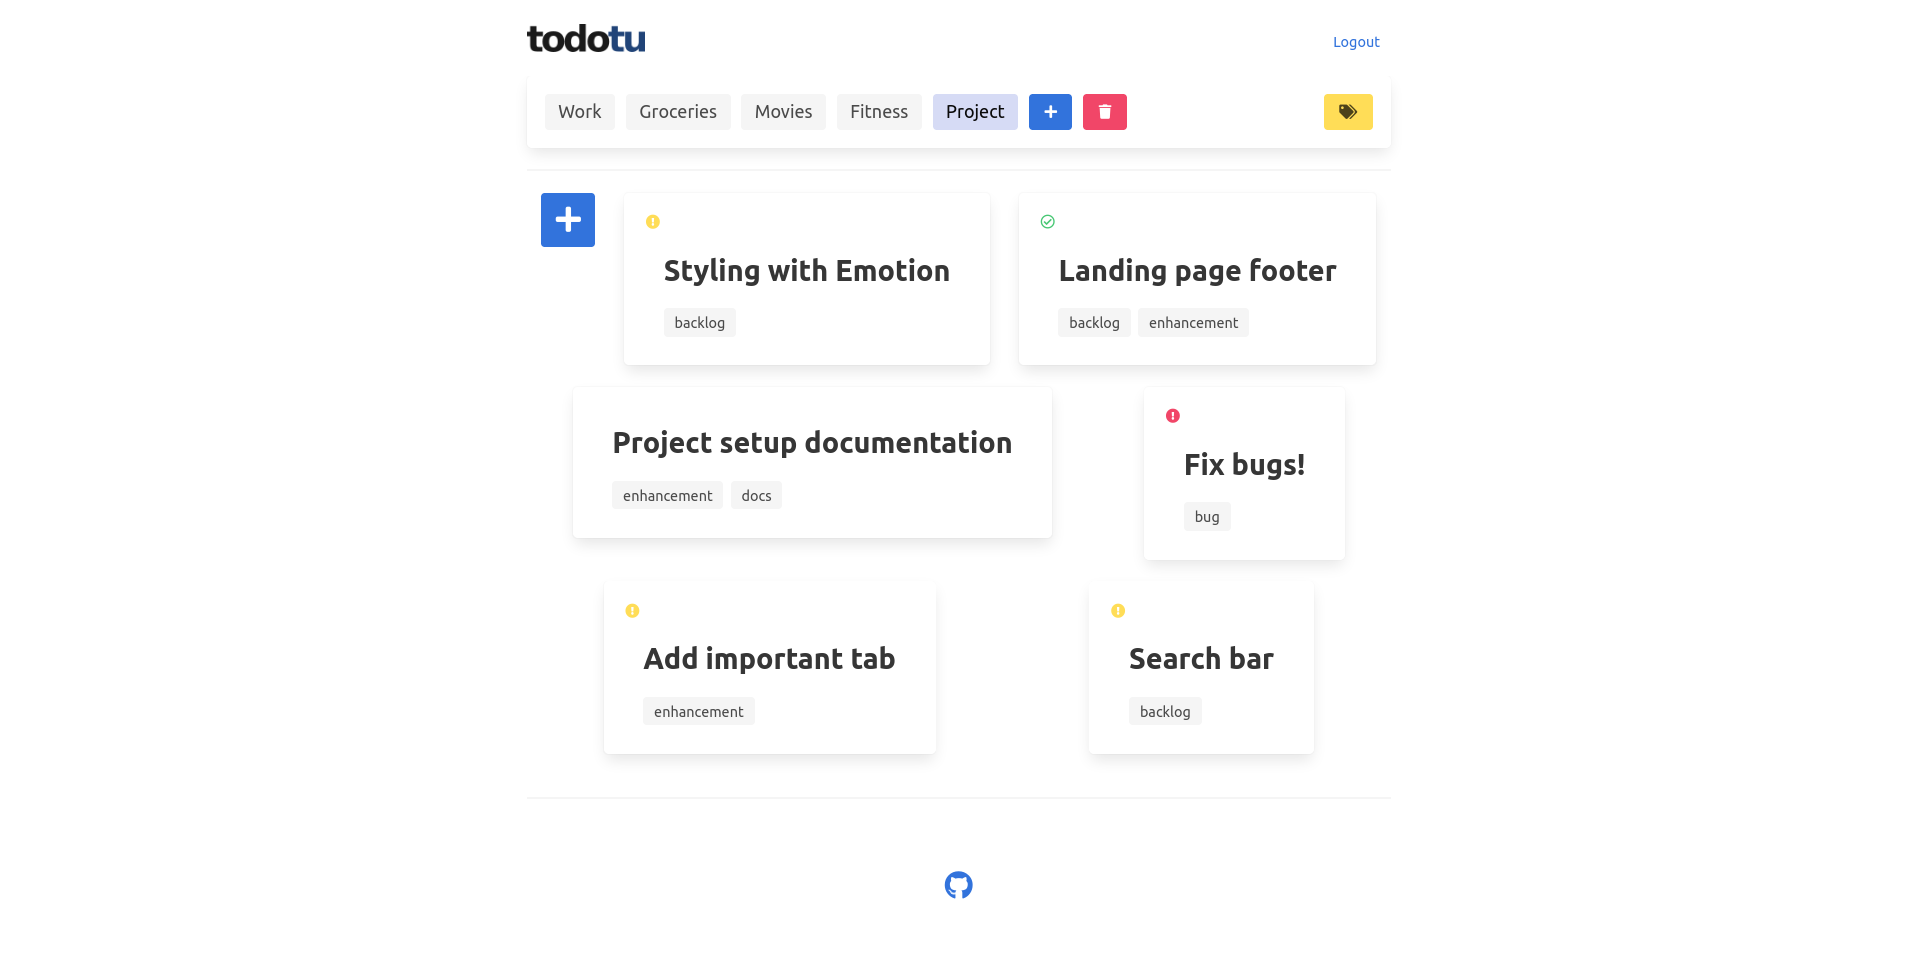
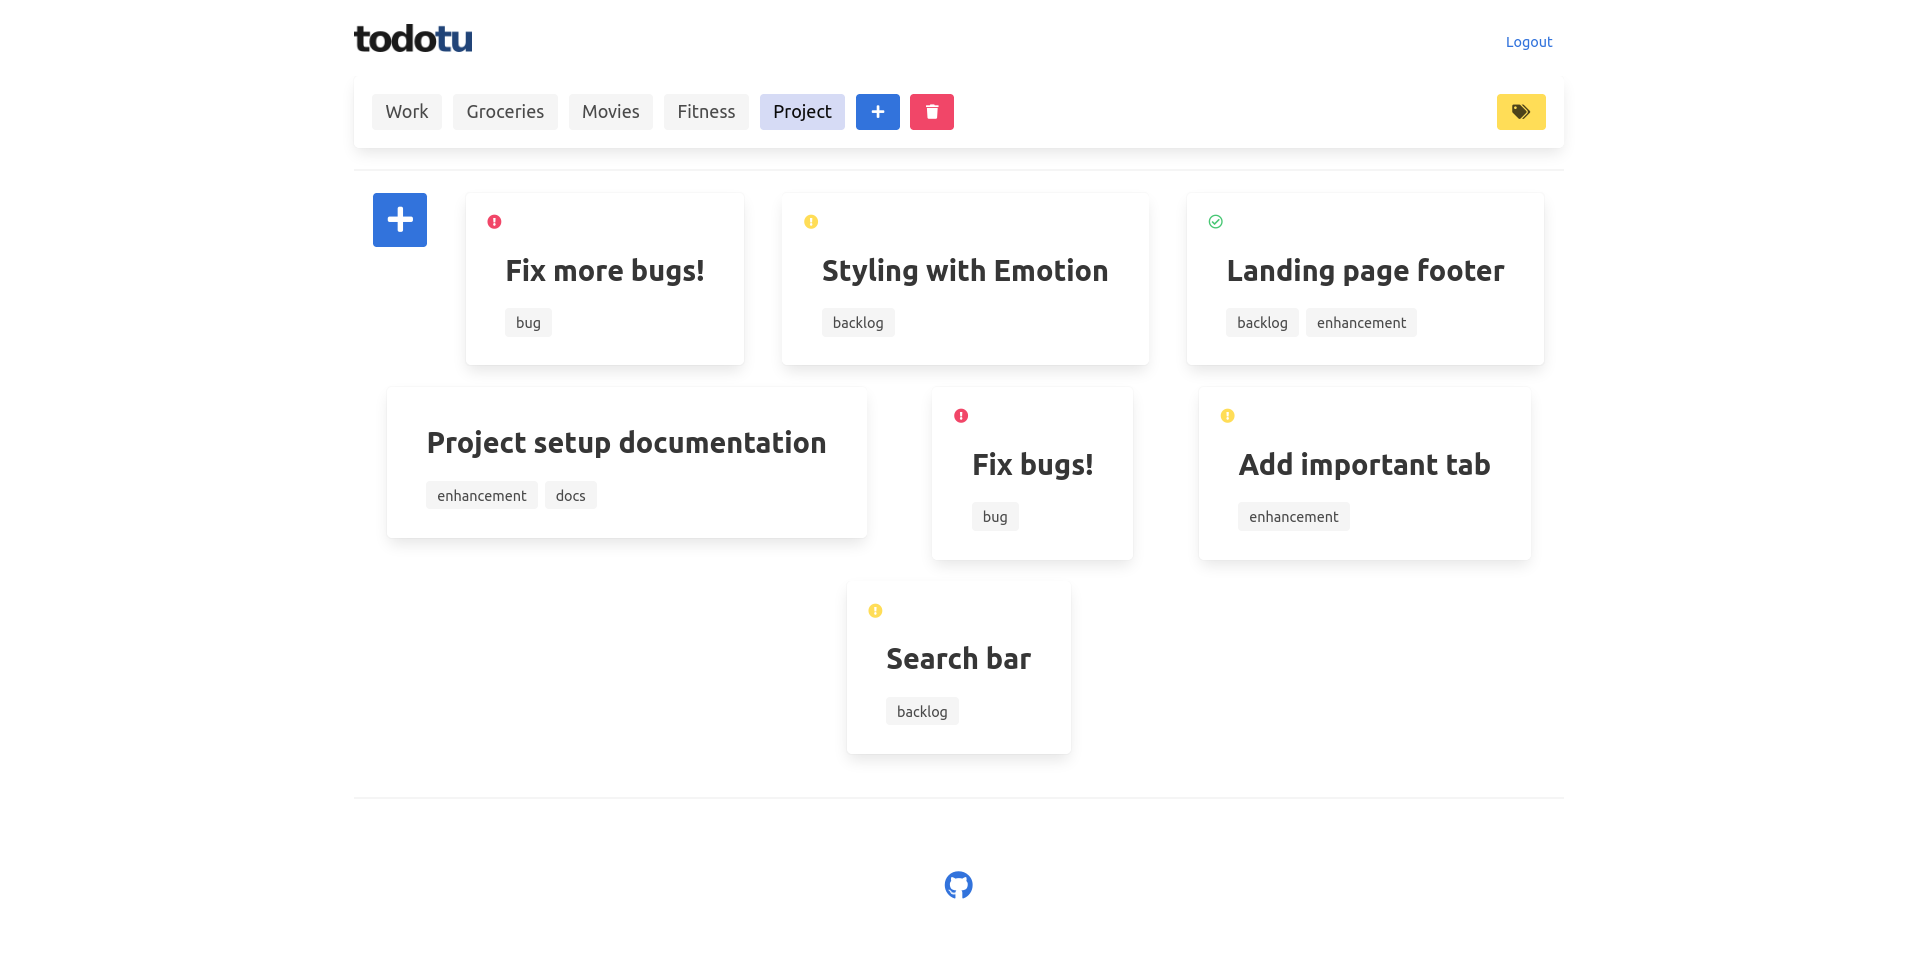
update README.md

diff --git a/frontend/src/views/Board.vue b/frontend/src/views/Board.vue
@@ -2,7 +2,7 @@
   <div class="board">
     <div class="columns">
       <div class="column">
-        <div class="container is-max-desktop">
+        <div class="container">
           <Nav />
           <Menu
             :boardId="board.id"
